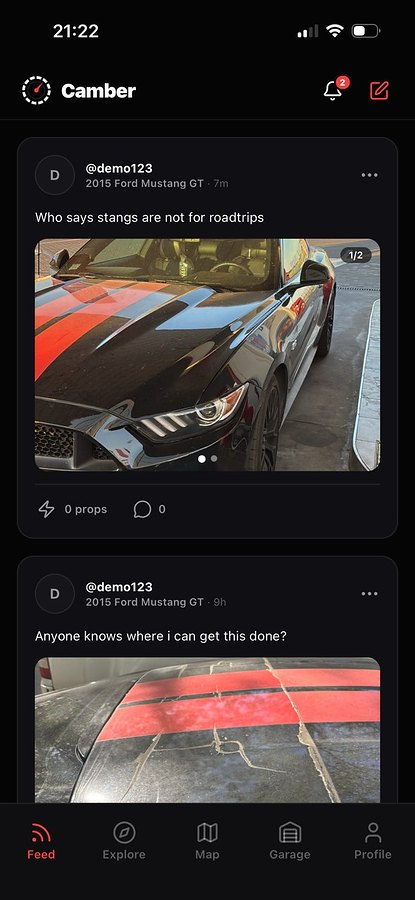
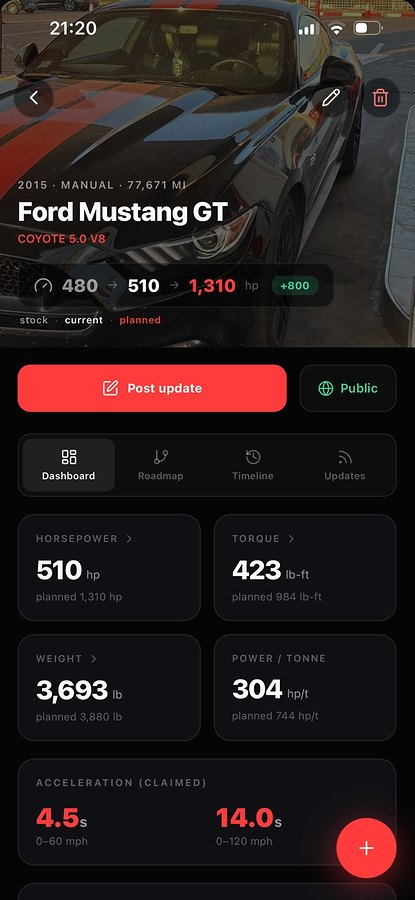
Update Camber for the redesign: new screenshots, gallery card and App Store copy

diff --git a/index.html b/index.html
@@ -661,7 +661,7 @@
           <div class="card-label">Coffeenvite</div>
         </a>
         <a class="gallery-card rot-n3" href="https://camber-app.com/" target="_blank" rel="noopener">
-          <img src="cards/Camber.jpg" alt="Camber" draggable="false" loading="lazy" decoding="async"
+          <img src="cards/CamberMobile.jpg" alt="Camber" draggable="false" loading="lazy" decoding="async"
                onerror="this.style.display='none';this.parentElement.style.background='radial-gradient(ellipse at 35% 35%,#EF4444 0%,#0b0b12 68%,#060609 100%)'"/>
           <div class="card-halftone"></div>
           <div class="card-label">Camber</div>
@@ -1038,8 +1038,8 @@ const odInfoEl   = document.getElementById('od-info');
 const PROJECTS = [
   { accent:'#EF4444',
     title:'Camber',
-    meta:'2026 · Live web app · Social platform for car builds',
-    desc:'A social platform for car enthusiasts. Plan your build as a staged roadmap, project finished horsepower and torque over your baseline, track the true cost of parts and labour, and see your crew live on the map with their car and current speed. Web app live now; iOS & Android coming.',
+    meta:'2026 · Live on web and the App Store · Social platform for car builds',
+    desc:'A social platform for car enthusiasts. Put every mod in a stage and see the finished horsepower before you spend a cent, with a running total of parts and labour. Time your 0-100 with the phone\'s GPS and rank against your country and the world, follow your crew live on the map, and keep every install on the car\'s timeline. Web app and iPhone app are both live, on one shared backend.',
     tech:'Next.js 15 · React 19 · TypeScript · Prisma · PostgreSQL · NextAuth · Tailwind · Expo / React Native · Cloudflare R2 · Vercel',
     url:'https://camber-app.com/', cta:'View Live', img:'camber2.jpg', phone:true },
   { accent:'#C8955F',

diff --git a/make-thumbs.py b/make-thumbs.py
@@ -51,7 +51,7 @@ for entry in re.findall(r'\{[^{}]*\}', block):
 CARDS = {
     'GuessTheRide.png': (380, 0, 1123, 991),
     'Coffeenvite.jpg':  (0, 0, 780, 1040),
-    'Camber.jpg':       (574, 0, 1586, 1350),
+    'CamberMobile.jpg': (0, 0, 1170, 1560),
     'fornata.png':      (420, 0, 1020, 800),
 }
 for name, box in CARDS.items():
